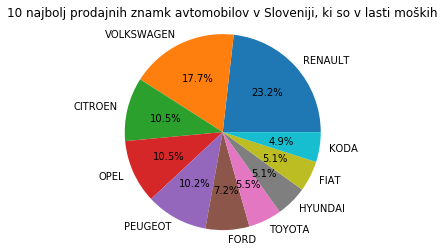
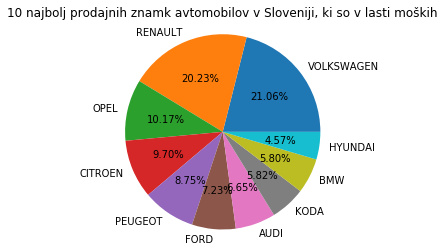
update1

diff --git a/README.md b/README.md
@@ -32,6 +32,10 @@ Po teh izračunih smo naredili še graf, ki prikazuje vzrok nesreče glede na sp
 ![](tipNesrečeGledeNaStanjePrometa.png "Vožnja pod vplivom alkohola")
 
 ### Registrirana vozila v Sloveniji
+V podatkih smo razbrali koliko vozil je v sloveniji registriranih, ocenili smo njihov delež in zaradi prevelikega števila znamk smo se omejili le na 10 najpogostejših. Seveda se pri voznem parku razlikuje ali je lastnik moški ali ženska.  
+Deset najbolj popularnih znamk pri moških.
+
+![](last_moski.png "last moški")![](last_zenske.png "Last ženske")
 
 
 
